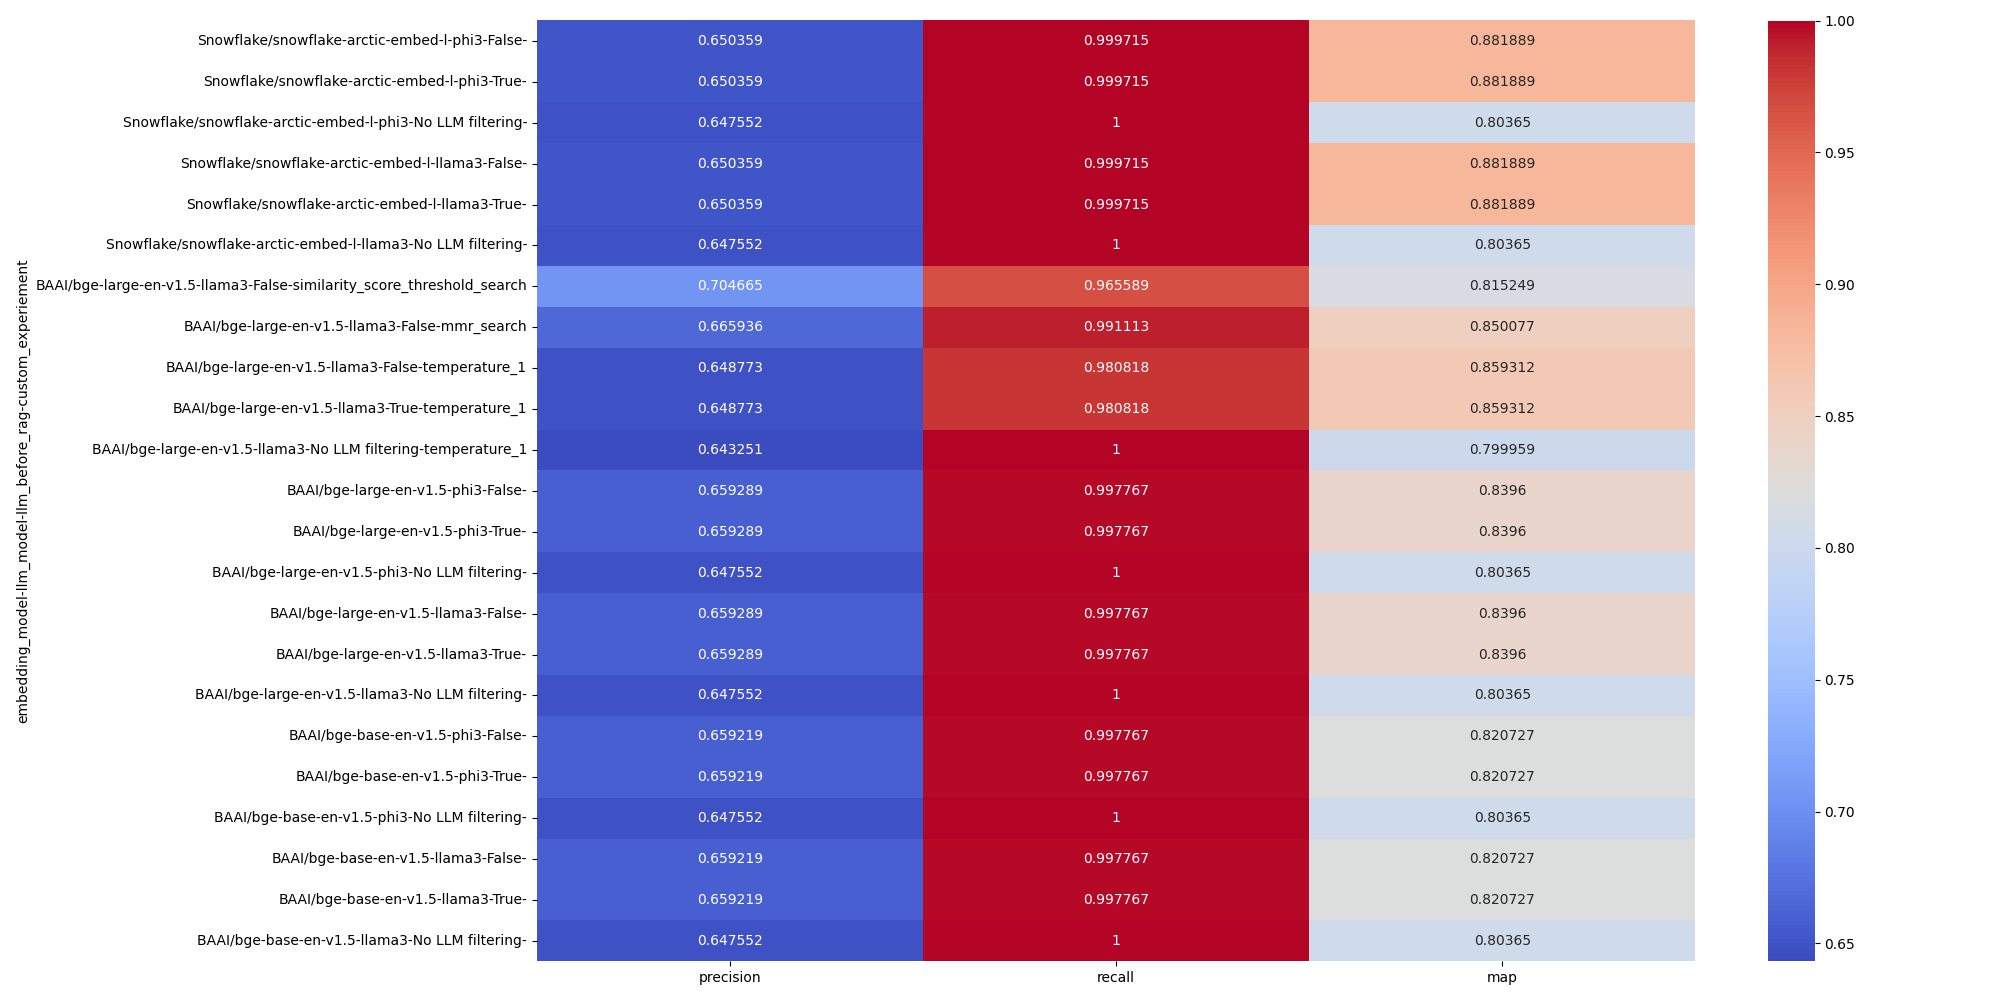
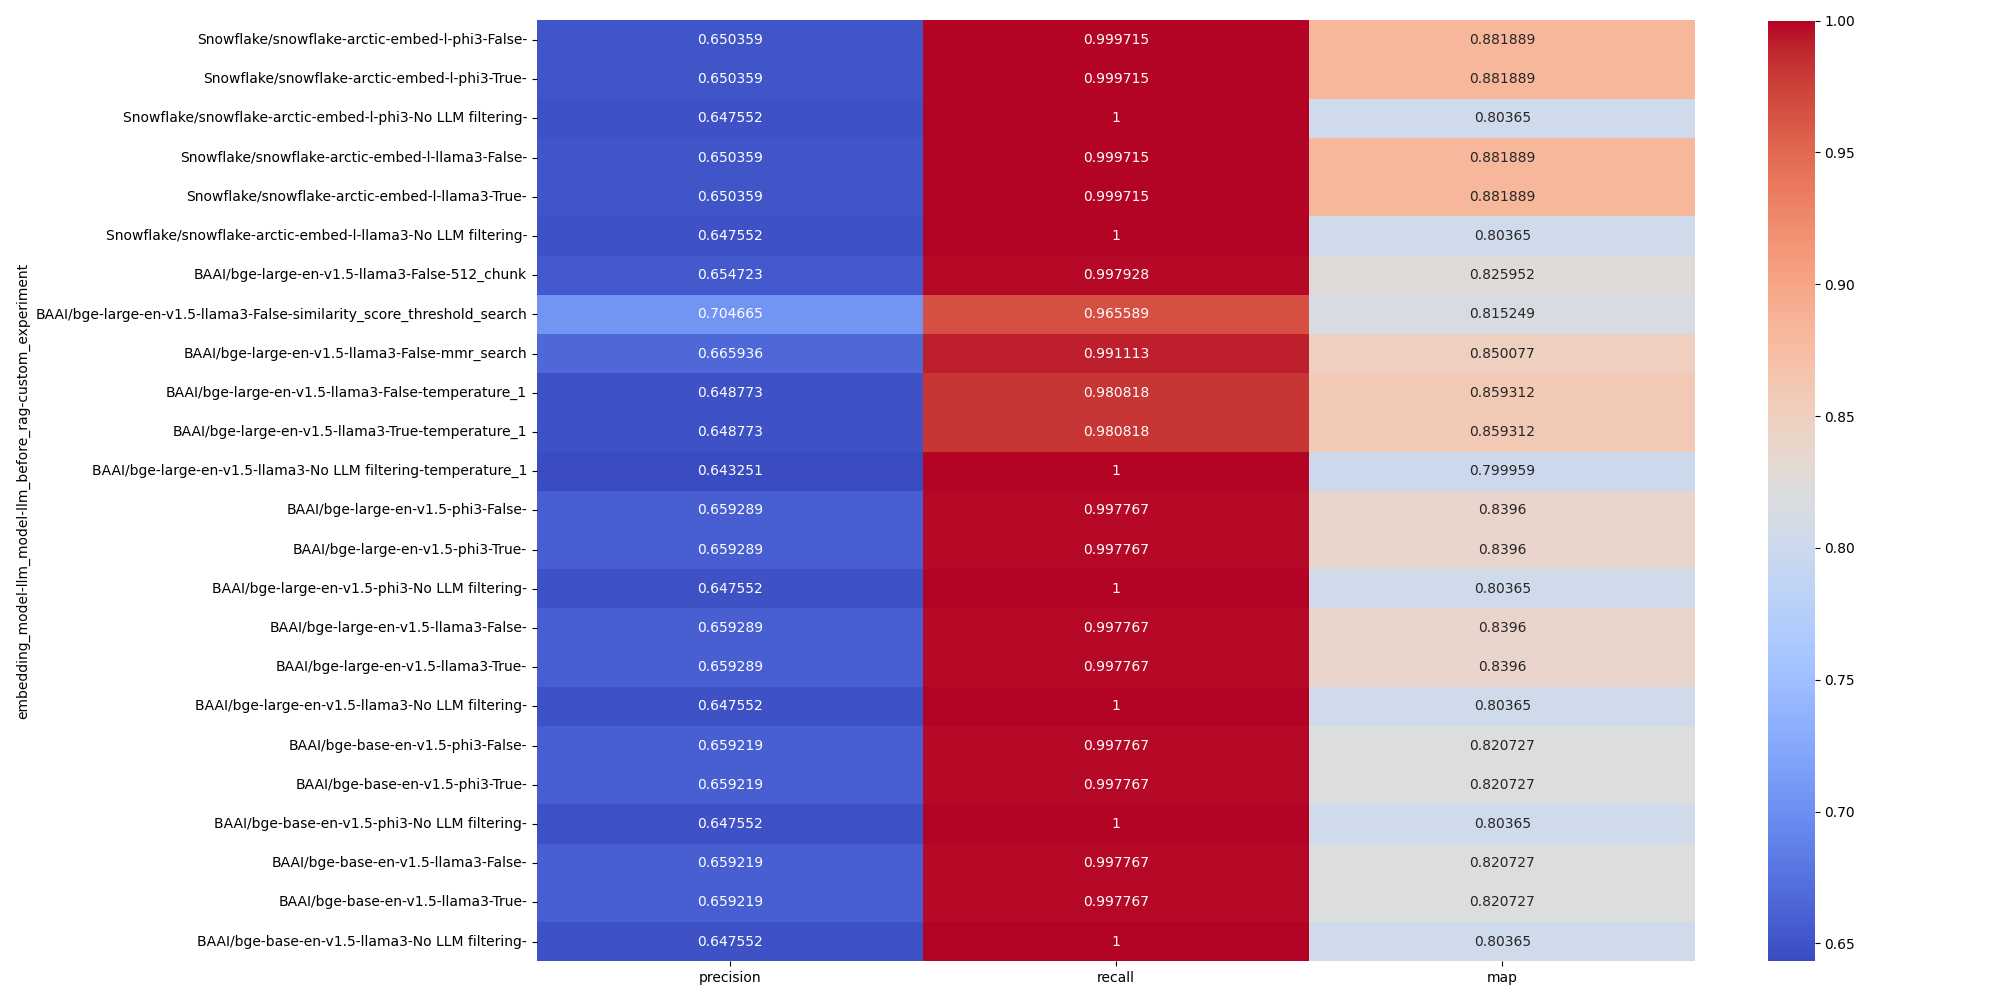
fixed chunking bug

diff --git a/backend/modules/vector_store_utils.py b/backend/modules/vector_store_utils.py
@@ -14,10 +14,11 @@ class DataLoader:
     """
     Description: Used to chunk data
     """
-    def __init__(self, metadata_df: pd.DataFrame, page_content_column: str, chunk_size:int = 1000):
+    def __init__(self, metadata_df: pd.DataFrame, page_content_column: str, chunk_size:int = 1000, chunk_overlap:int = 150):
         self.metadata_df = metadata_df
         self.page_content_column = page_content_column
         self.chunk_size = chunk_size
+        self.chunk_overlap = chunk_overlap if self.chunk_size > chunk_overlap else self.chunk_size
 
     def load_and_process_data(self) -> list:
         """
@@ -29,7 +30,7 @@ class DataLoader:
         documents = loader.load()
 
         text_splitter = RecursiveCharacterTextSplitter(
-            chunk_size=self.chunk_size, chunk_overlap=150
+            chunk_size=self.chunk_size, chunk_overlap=self.chunk_overlap
         )
         documents = text_splitter.split_documents(documents)
 
